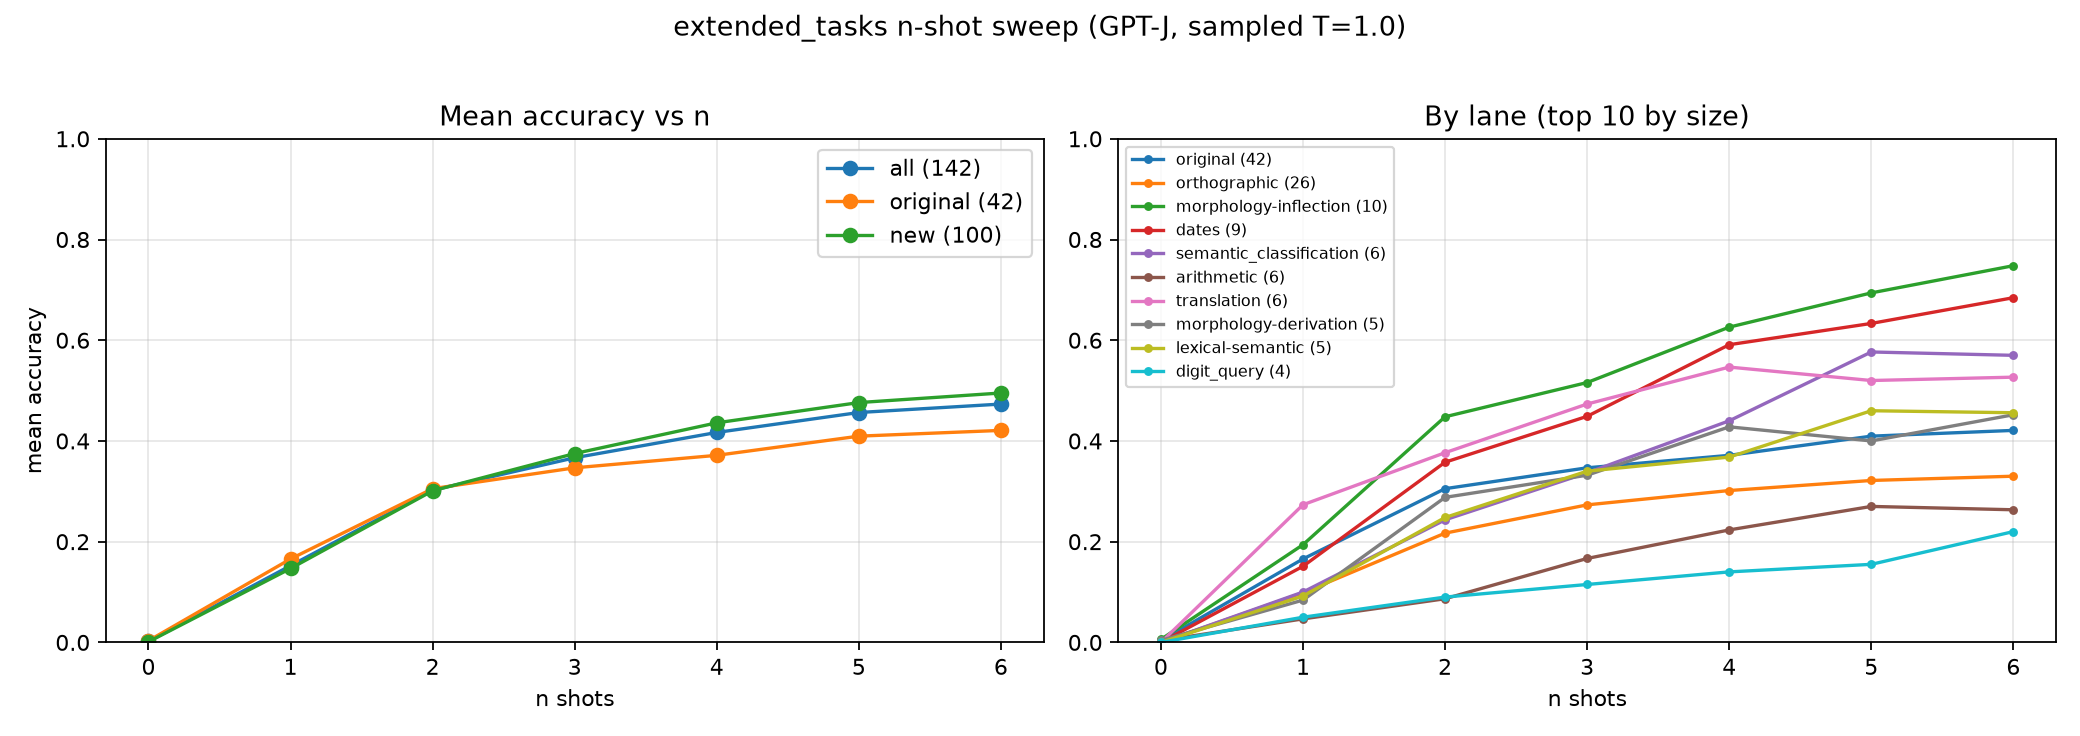
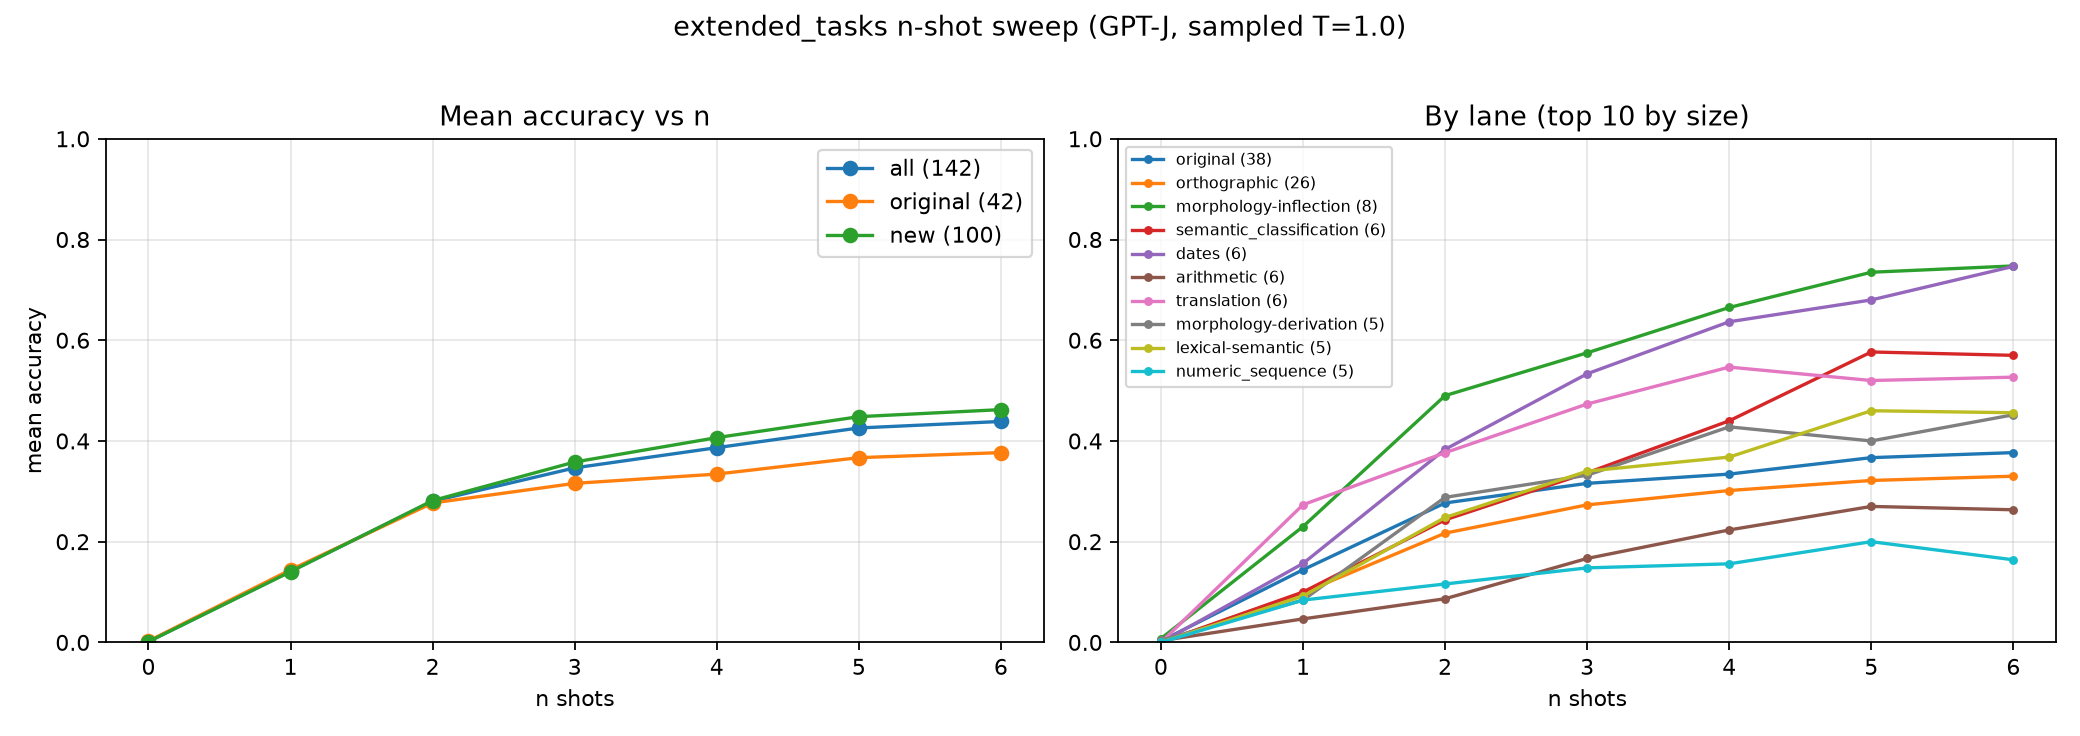
n-shot rerun for the 6 revised tasks; refresh sweep CSV + figures (138 tasks)
adjective_to_noun 0.46, syllable_count 0.26; arithmetic probes floored as flagged
(times_five 0.00, time_to_minutes 0.04, double_number 0.04, halve_even_number 0.06).

diff --git a/src/eval_scripts/compute_extended_nshot_sampled.py b/src/eval_scripts/compute_extended_nshot_sampled.py
@@ -101,7 +101,8 @@ def build_task_specs(task):
 def mode_build(args):
     (OUT_ROOT / "shards").mkdir(parents=True, exist_ok=True)
     tasks = task_names()
-    assert len(tasks) == 142, f"expected 142 tasks, found {len(tasks)}"
+    # 138 after the user-approved 2026-08-14 revision (was 142 at the first sweep)
+    assert len(tasks) == 138, f"expected 138 tasks, found {len(tasks)}"
     per_task, cost = {}, {}
     for t in tasks:
         specs = build_task_specs(t)
